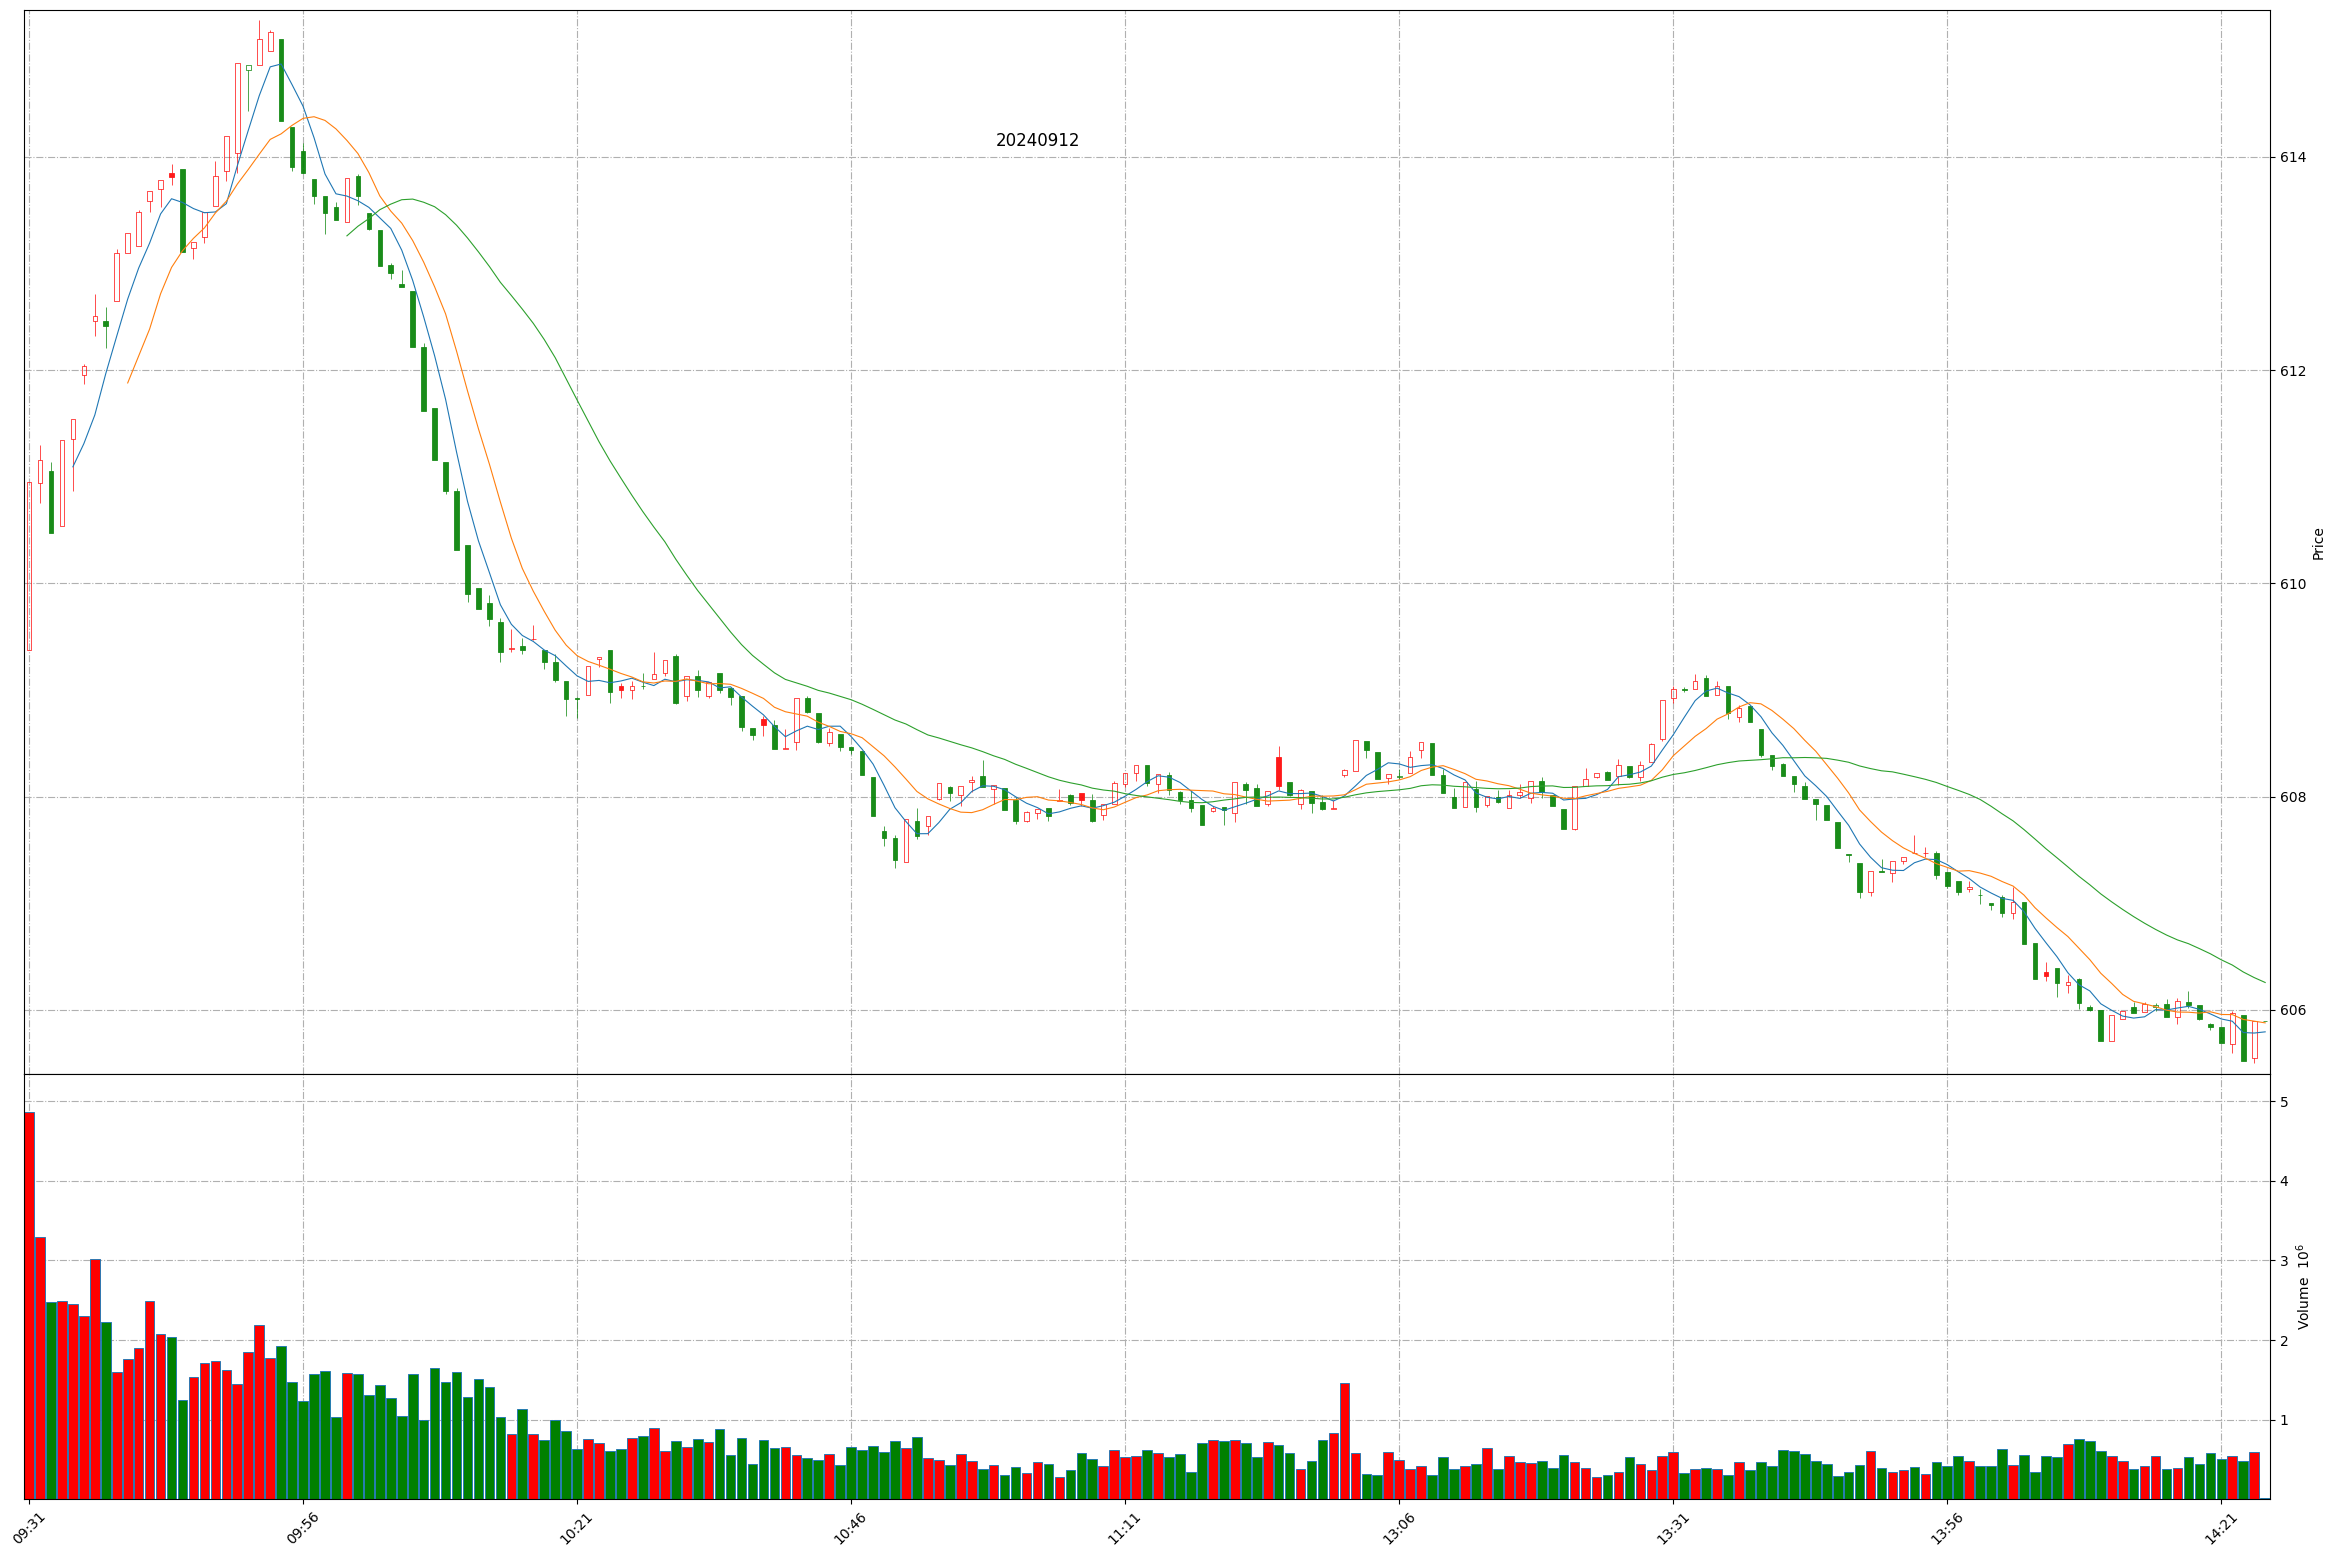
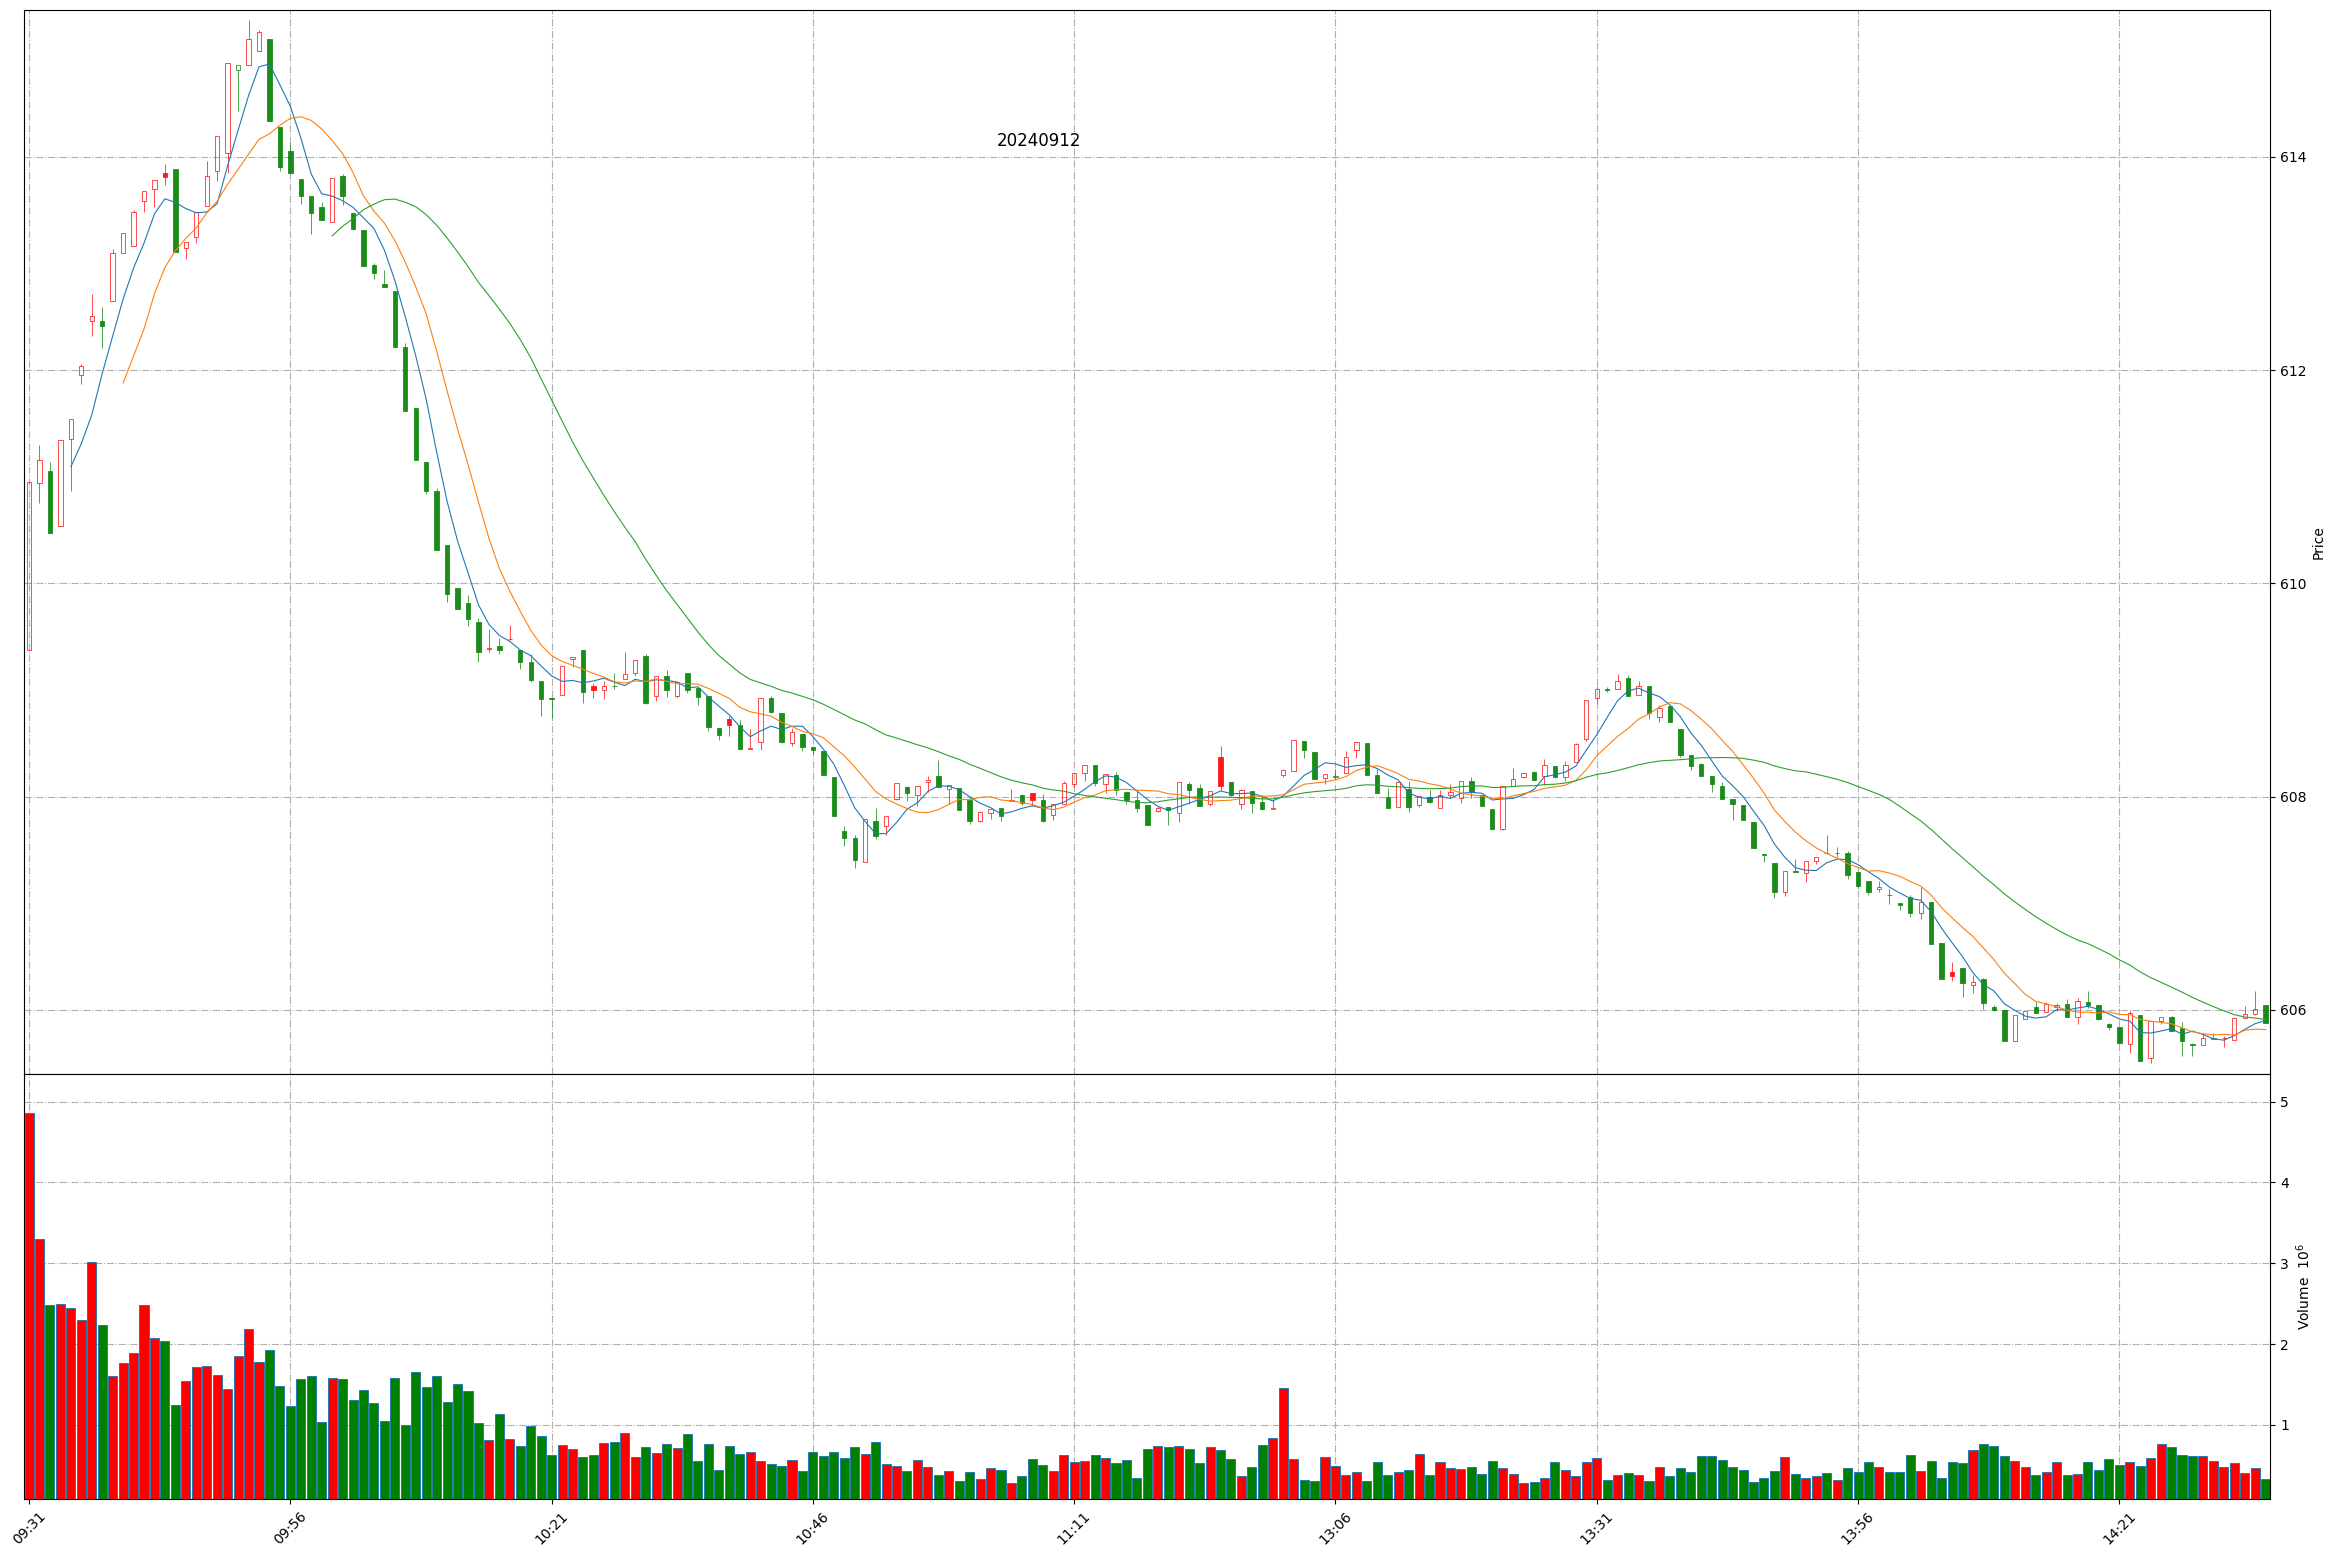
Github action update at 2024-09-12 14:34:39.

diff --git a/README.md b/README.md
@@ -1,11 +1,11 @@
 
 # Daily-A-share-market-quotes 每日 A 股指数（5min 更新）- 20240912
 
-### 上证指数 20240912 14:24
+### 上证指数 20240912 14:34
 ![](./fig/2024/9/20240912-sh000001.png)
 
-### 深证成指 20240912 14:24
+### 深证成指 20240912 14:34
 ![](./fig/2024/9/20240912-sz399001.png)
 
-### 北证50 20240912 14:24
+### 北证50 20240912 14:34
 ![](./fig/2024/9/20240912-bj899050.png)
